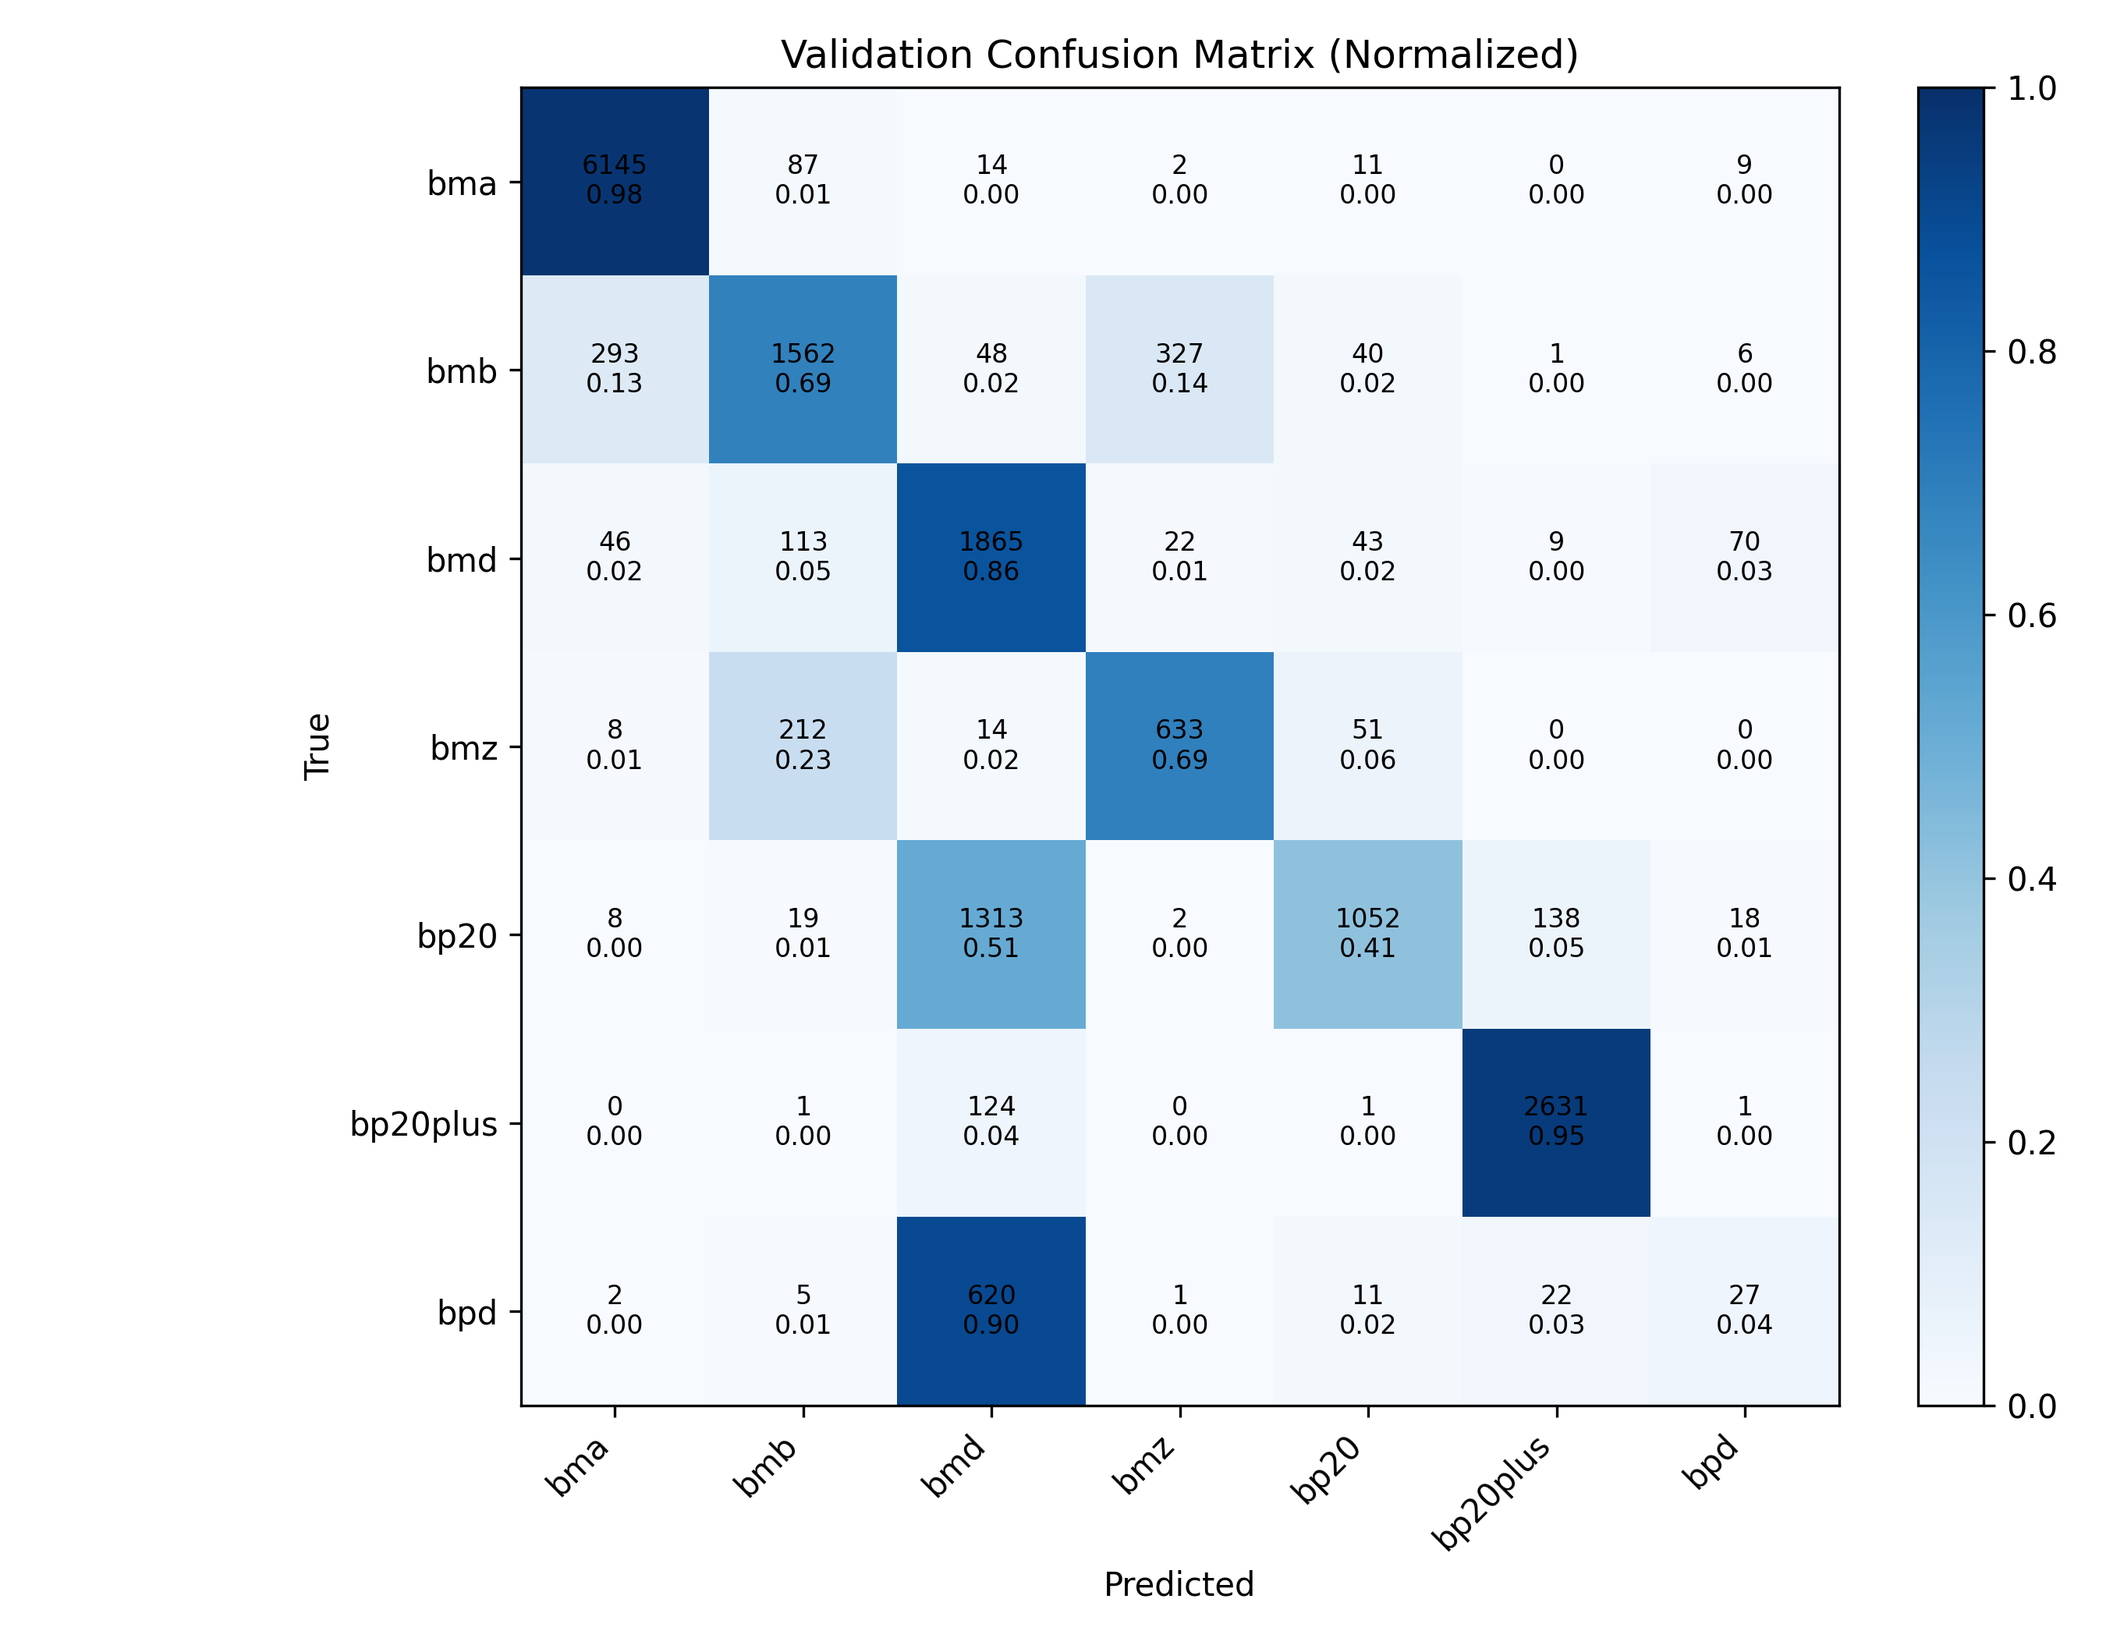
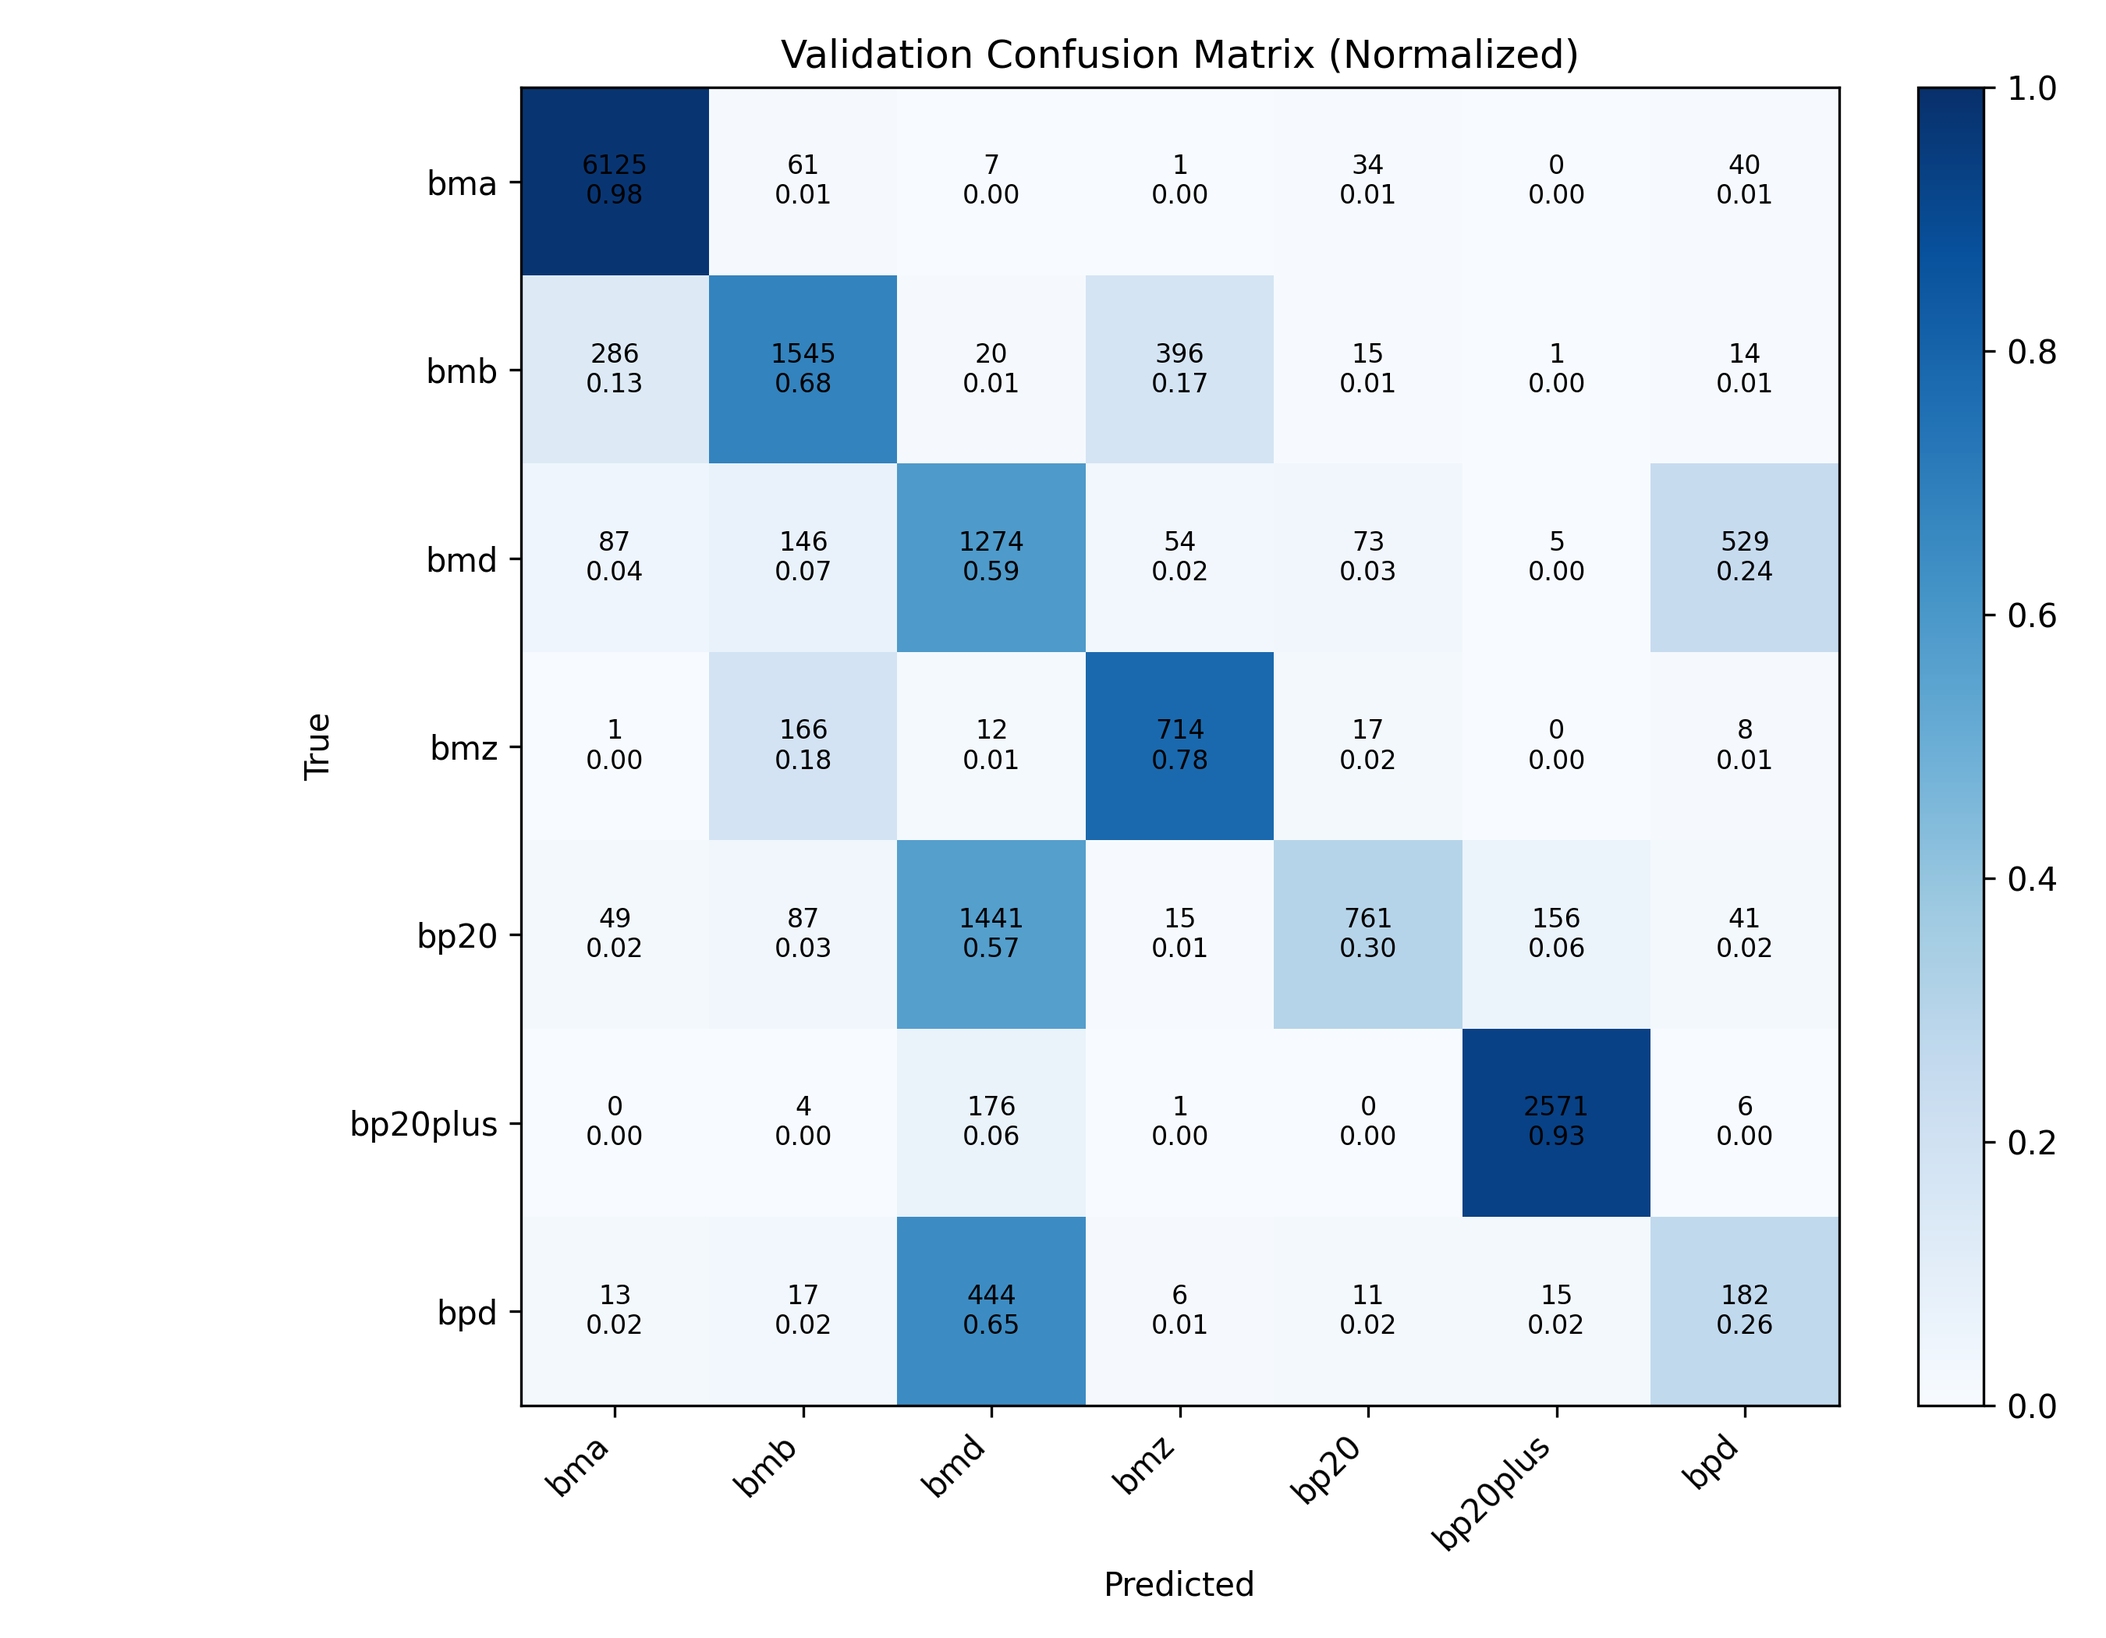
added low-high freq to NN input

diff --git a/training.py b/training.py
@@ -16,7 +16,7 @@ except ImportError as exc:
 PREPROC_DIR = Path("preprocessed")
 MODEL_PATH = Path("preprocessed/mlp_whale_classifier.pt")
 BATCH_SIZE = 128
-EPOCHS = 15
+EPOCHS = 12
 LEARNING_RATE = 1e-3
 HIDDEN_1 = 256
 HIDDEN_2 = 128
@@ -24,9 +24,10 @@ SEED = 42
 
 
 class SpectrogramDataset(Dataset):
-    def __init__(self, x_memmap: np.ndarray, labels: np.ndarray):
+    def __init__(self, x_memmap: np.ndarray, labels: np.ndarray, frequencies: np.ndarray | None = None):
         self.x_memmap = x_memmap
         self.labels = labels.astype(np.int64, copy=False)
+        self.frequencies = frequencies
 
     def __len__(self) -> int:
         return len(self.labels)
@@ -34,14 +35,24 @@ class SpectrogramDataset(Dataset):
     def __getitem__(self, idx: int):
         x = np.asarray(self.x_memmap[idx], dtype=np.float32).reshape(-1)
         y_val = self.labels[idx]
-        return torch.from_numpy(x), torch.tensor(y_val, dtype=torch.long)
+        
+        if self.frequencies is not None:
+            freq_features = self.frequencies[idx].astype(np.float32)
+            return torch.from_numpy(x), torch.from_numpy(freq_features), torch.tensor(y_val, dtype=torch.long)
+        else:
+            return torch.from_numpy(x), torch.tensor(y_val, dtype=torch.long)
 
 
 class MLPClassifier(nn.Module):
-    def __init__(self, in_features: int, out_classes: int, hidden_1: int = 256, hidden_2: int = 128):
+    def __init__(self, in_features: int, out_classes: int, hidden_1: int = 256, hidden_2: int = 128, use_frequencies: bool = False):
         super().__init__()
+        self.use_frequencies = use_frequencies
+        
+        # Input dimension includes frequency features if enabled
+        total_input_features = in_features + (2 if use_frequencies else 0)
+        
         self.net = nn.Sequential(
-            nn.Linear(in_features, hidden_1),
+            nn.Linear(total_input_features, hidden_1),
             nn.ReLU(),
             nn.Dropout(0.2),
             nn.Linear(hidden_1, hidden_2),
@@ -50,7 +61,9 @@ class MLPClassifier(nn.Module):
             nn.Linear(hidden_2, out_classes),
         )
 
-    def forward(self, x):
+    def forward(self, x, freq=None):
+        if self.use_frequencies and freq is not None:
+            x = torch.cat([x, freq], dim=1)
         return self.net(x)
 
 
@@ -69,6 +82,7 @@ def main() -> None:
     x_path = PREPROC_DIR / "X_normalized.npy"
     y_path = PREPROC_DIR / "y_labels.npy"
     label_names_path = PREPROC_DIR / "label_names.npy"
+    frequencies_path = PREPROC_DIR / "frequencies.npy"
 
     for path in [x_path, y_path, label_names_path]:
         if not path.exists():
@@ -77,6 +91,16 @@ def main() -> None:
     X = np.load(x_path, mmap_mode="r")
     y = np.load(y_path)
     label_names = np.load(label_names_path)
+    
+    # Load frequencies if available
+    frequencies = None
+    use_frequencies = False
+    if frequencies_path.exists():
+        frequencies = np.load(frequencies_path)
+        use_frequencies = True
+        print(f"Loaded frequency features from {frequencies_path}")
+    else:
+        print(f"Frequency features not found at {frequencies_path} - training without frequency information")
 
     input_shape = X.shape[1:]
     input_dim = int(np.prod(input_shape))
@@ -87,8 +111,10 @@ def main() -> None:
     print(f"Samples: {len(y)}")
     print(f"Input shape: {input_shape} -> flattened dim: {input_dim}")
     print(f"Classes ({num_classes}): {list(label_names)}")
+    if use_frequencies:
+        print(f"Frequency features shape: {frequencies.shape}")
 
-    dataset = SpectrogramDataset(X, y)
+    dataset = SpectrogramDataset(X, y, frequencies)
     loader = DataLoader(
         dataset,
         batch_size=BATCH_SIZE,
@@ -102,6 +128,7 @@ def main() -> None:
         out_classes=num_classes,
         hidden_1=HIDDEN_1,
         hidden_2=HIDDEN_2,
+        use_frequencies=use_frequencies,
     ).to(device)
 
     class_weights_np = compute_class_weights(y, num_classes)
@@ -121,12 +148,19 @@ def main() -> None:
         correct = 0
         total = 0
 
-        for xb, yb in loader:
+        for batch_data in loader:
+            if use_frequencies:
+                xb, freq_b, yb = batch_data
+                freq_b = freq_b.to(device, non_blocking=True)
+            else:
+                xb, yb = batch_data
+                freq_b = None
+            
             xb = xb.to(device, non_blocking=True)
             yb = yb.to(device, non_blocking=True)
 
             optimizer.zero_grad()
-            logits = model(xb)
+            logits = model(xb, freq_b) if use_frequencies else model(xb)
             loss = criterion(logits, yb)
             loss.backward()
             optimizer.step()
@@ -146,6 +180,7 @@ def main() -> None:
             "model_state_dict": model.state_dict(),
             "input_shape": tuple(int(v) for v in input_shape),
             "label_names": [str(v) for v in label_names],
+            "use_frequencies": bool(use_frequencies),
             "config": {
                 "hidden_1": int(HIDDEN_1),
                 "hidden_2": int(HIDDEN_2),

diff --git a/preprocessing_wavfiles.py b/preprocessing_wavfiles.py
@@ -45,6 +45,8 @@ class PreprocessResult:
     labels_path: Path
     label_names_path: Path
     stats_path: Path
+    frequencies_path: Path
+    frequencies_stats_path: Path
     num_samples: int
     target_freq_bins: int
     target_time_bins: int
@@ -430,6 +432,55 @@ def normalize_arrays(
     return mean, std
 
 
+def extract_and_save_frequency_features(
+    rows: list[dict[str, str]],
+    freqs_path: Path,
+    freqs_stats_path: Path,
+    provided_freqs_stats: tuple[float, float, float, float] | None = None,
+) -> tuple[np.ndarray, tuple[float, float, float, float]]:
+    """
+    Extract low and high frequency from index rows and save as normalized features.
+    
+    Returns:
+        - Frequency features array of shape (num_samples, 2)
+        - Frequency statistics (low_min, low_max, high_min, high_max) for normalization
+    """
+    num_samples = len(rows)
+    frequencies = np.empty((num_samples, 2), dtype=np.float32)
+    
+    for i, row in enumerate(rows):
+        low_freq = float(row["low_frequency"])
+        high_freq = float(row["high_frequency"])
+        frequencies[i] = [low_freq, high_freq]
+    
+    # Compute or use provided frequency statistics
+    if provided_freqs_stats is None:
+        low_min = float(frequencies[:, 0].min())
+        low_max = float(frequencies[:, 0].max())
+        high_min = float(frequencies[:, 1].min())
+        high_max = float(frequencies[:, 1].max())
+    else:
+        low_min, low_max, high_min, high_max = provided_freqs_stats
+    
+    # Normalize frequencies to [0, 1]
+    frequencies[:, 0] = (frequencies[:, 0] - low_min) / (low_max - low_min + 1e-9)
+    frequencies[:, 1] = (frequencies[:, 1] - high_min) / (high_max - high_min + 1e-9)
+    
+    freqs_path.parent.mkdir(parents=True, exist_ok=True)
+    np.save(freqs_path, frequencies)
+    
+    freqs_stats_path.parent.mkdir(parents=True, exist_ok=True)
+    np.savez(
+        freqs_stats_path,
+        low_min=np.float32(low_min),
+        low_max=np.float32(low_max),
+        high_min=np.float32(high_min),
+        high_max=np.float32(high_max),
+    )
+    
+    return frequencies, (low_min, low_max, high_min, high_max)
+
+
 def preprocess_split(
     dataset_root: Path,
     split: str,
@@ -445,6 +496,7 @@ def preprocess_split(
     round_time_to: int = 16,
     train_stats_path: Path | None = None,
     label_names_path: Path | None = None,
+    train_freqs_stats_path: Path | None = None,
 ) -> PreprocessResult:
     preproc_dir.mkdir(parents=True, exist_ok=True)
 
@@ -453,6 +505,8 @@ def preprocess_split(
     labels_path = preproc_dir / "y_labels.npy"
     out_label_names_path = preproc_dir / "label_names.npy"
     stats_path = preproc_dir / "normalization_stats.npz"
+    frequencies_path = preproc_dir / "frequencies.npy"
+    frequencies_stats_path = preproc_dir / "frequencies_stats.npz"
 
     extracted = extract_events_to_wavs(dataset_root, split, events_dir)
     print(f"Extracted event WAV files: {extracted}")
@@ -465,6 +519,7 @@ def preprocess_split(
     fixed_target_shape: tuple[int, int] | None = None
     provided_mean_std: tuple[float, float] | None = None
     fixed_label_names: Sequence[str] | None = None
+    provided_freqs_stats: tuple[float, float, float, float] | None = None
 
     if train_stats_path is not None:
         stats = np.load(train_stats_path)
@@ -473,6 +528,15 @@ def preprocess_split(
 
     if label_names_path is not None:
         fixed_label_names = [str(v) for v in np.load(label_names_path)]
+
+    if train_freqs_stats_path is not None:
+        freqs_stats = np.load(train_freqs_stats_path)
+        provided_freqs_stats = (
+            float(freqs_stats["low_min"]),
+            float(freqs_stats["low_max"]),
+            float(freqs_stats["high_min"]),
+            float(freqs_stats["high_max"]),
+        )
 
     target_shape = fixed_target_shape or select_target_shape(
         rows=rows,
@@ -504,9 +568,17 @@ def preprocess_split(
         provided_mean_std=provided_mean_std,
     )
 
+    frequencies, freqs_stats = extract_and_save_frequency_features(
+        rows=rows,
+        freqs_path=frequencies_path,
+        freqs_stats_path=frequencies_stats_path,
+        provided_freqs_stats=provided_freqs_stats,
+    )
+
     print(f"Saved labels: {labels_path}")
     print(f"Saved class names: {out_label_names_path}")
     print(f"Saved normalized arrays: {normalized_path}")
+    print(f"Saved frequency features: {frequencies_path}")
     print(f"Normalization mean={mean:.6f}, std={std:.6f}")
     print(f"Classes: {list(label_names)}")
 
@@ -520,6 +592,8 @@ def preprocess_split(
         labels_path=labels_path,
         label_names_path=out_label_names_path,
         stats_path=stats_path,
+        frequencies_path=frequencies_path,
+        frequencies_stats_path=frequencies_stats_path,
         num_samples=num_samples,
         target_freq_bins=target_shape[0],
         target_time_bins=target_shape[1],

diff --git a/testing.py b/testing.py
@@ -72,6 +72,7 @@ def save_confusion_matrix_image(cm: np.ndarray, label_names: np.ndarray, output_
 def main() -> None:
     train_stats_path = TRAIN_PREPROC_DIR / "normalization_stats.npz"
     train_label_names_path = TRAIN_PREPROC_DIR / "label_names.npy"
+    train_freqs_stats_path = TRAIN_PREPROC_DIR / "frequencies_stats.npz"
 
     for path in [train_stats_path, train_label_names_path, MODEL_PATH]:
         if not path.exists():
@@ -89,11 +90,20 @@ def main() -> None:
         preproc_dir=testing_preproc_dir,
         train_stats_path=train_stats_path,
         label_names_path=train_label_names_path,
+        train_freqs_stats_path=train_freqs_stats_path if train_freqs_stats_path.exists() else None,
     )
 
     X_val = np.load(preprocess_result.normalized_path, mmap_mode="r")
     y_val = np.load(preprocess_result.labels_path)
     label_names = np.load(preprocess_result.label_names_path)
+    
+    # Load frequency features if available
+    frequencies_val = None
+    use_frequencies = False
+    if preprocess_result.frequencies_path.exists():
+        frequencies_val = np.load(preprocess_result.frequencies_path)
+        use_frequencies = True
+        print(f"Loaded validation frequency features from {preprocess_result.frequencies_path}")
 
     checkpoint = torch.load(MODEL_PATH, map_location="cpu")
     checkpoint_input_shape = tuple(int(v) for v in checkpoint["input_shape"])
@@ -106,6 +116,13 @@ def main() -> None:
     if model_label_names != [str(v) for v in label_names]:
         raise ValueError("Label order mismatch between model checkpoint and validation preprocessing.")
 
+    # Check if model uses frequencies
+    checkpoint_use_frequencies = checkpoint.get("use_frequencies", False)
+    if checkpoint_use_frequencies != use_frequencies:
+        print(f"Warning: Model uses_frequencies={checkpoint_use_frequencies}, but data has frequencies={use_frequencies}")
+        if checkpoint_use_frequencies and not use_frequencies:
+            raise ValueError("Model expects frequency features but they are not available in validation data.")
+
     num_classes = len(label_names)
     input_dim = int(np.prod(checkpoint_input_shape))
     config = checkpoint.get("config", {})
@@ -113,11 +130,11 @@ def main() -> None:
     hidden_2 = int(config.get("hidden_2", 128))
 
     device = torch.device("cuda" if torch.cuda.is_available() else "cpu")
-    model = MLPClassifier(input_dim, num_classes, hidden_1=hidden_1, hidden_2=hidden_2).to(device)
+    model = MLPClassifier(input_dim, num_classes, hidden_1=hidden_1, hidden_2=hidden_2, use_frequencies=use_frequencies).to(device)
     model.load_state_dict(checkpoint["model_state_dict"])
     model.eval()
 
-    dataset = SpectrogramDataset(X_val, y_val)
+    dataset = SpectrogramDataset(X_val, y_val, frequencies_val)
     loader = DataLoader(
         dataset,
         batch_size=BATCH_SIZE,
@@ -129,11 +146,18 @@ def main() -> None:
     cm = np.zeros((num_classes, num_classes), dtype=np.int64)
 
     with torch.no_grad():
-        for xb, yb in loader:
+        for batch_data in loader:
+            if use_frequencies:
+                xb, freq_b, yb = batch_data
+                freq_b = freq_b.to(device, non_blocking=True)
+            else:
+                xb, yb = batch_data
+                freq_b = None
+            
             xb = xb.to(device, non_blocking=True)
             yb = yb.to(device, non_blocking=True)
 
-            preds = model(xb).argmax(dim=1).cpu().numpy()
+            preds = model(xb, freq_b).argmax(dim=1).cpu().numpy() if use_frequencies else model(xb).argmax(dim=1).cpu().numpy()
             true = yb.cpu().numpy()
             np.add.at(cm, (true, preds), 1)
 
